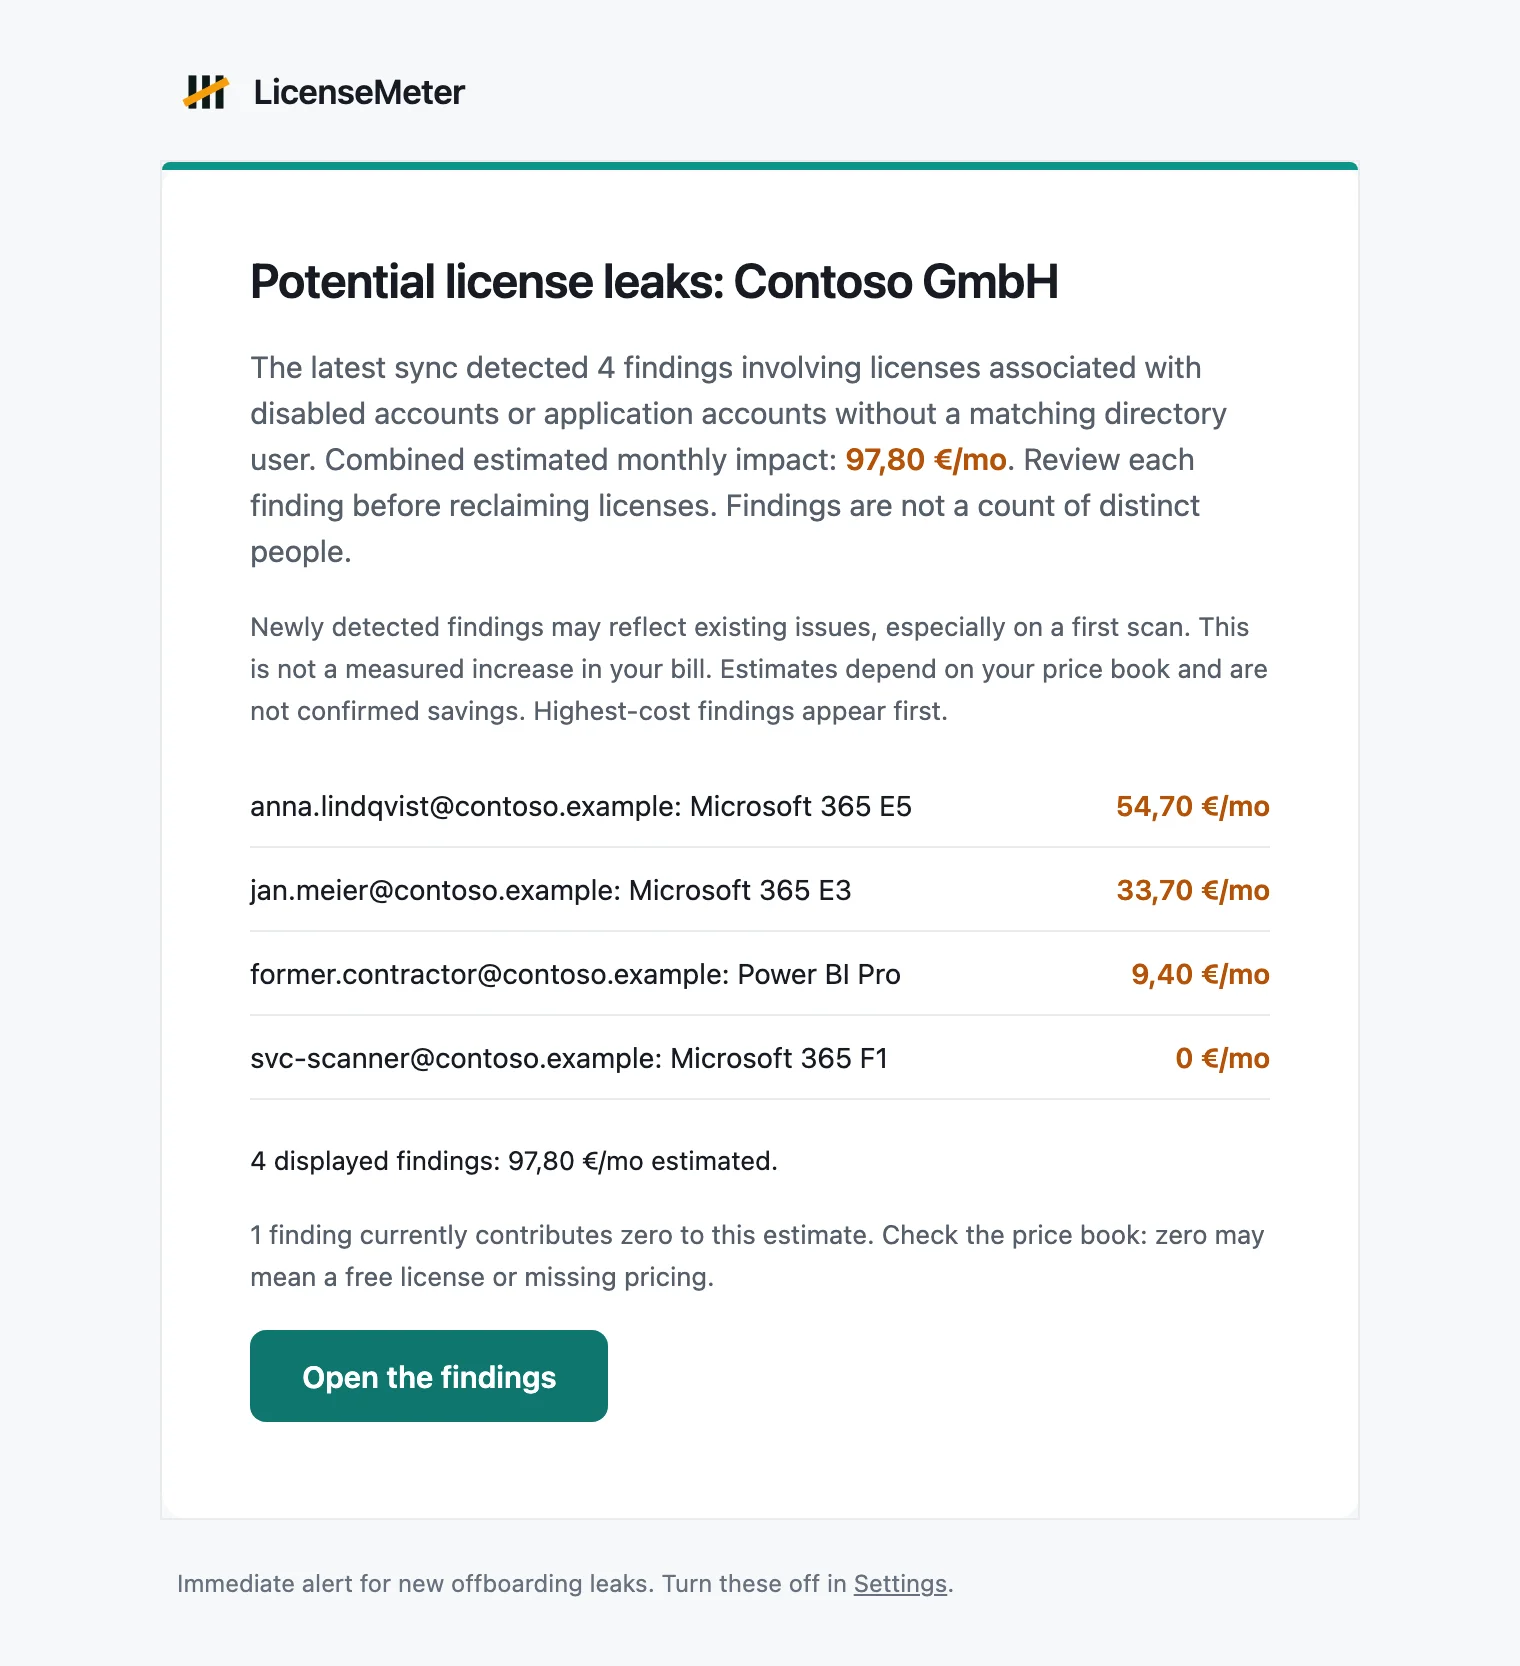
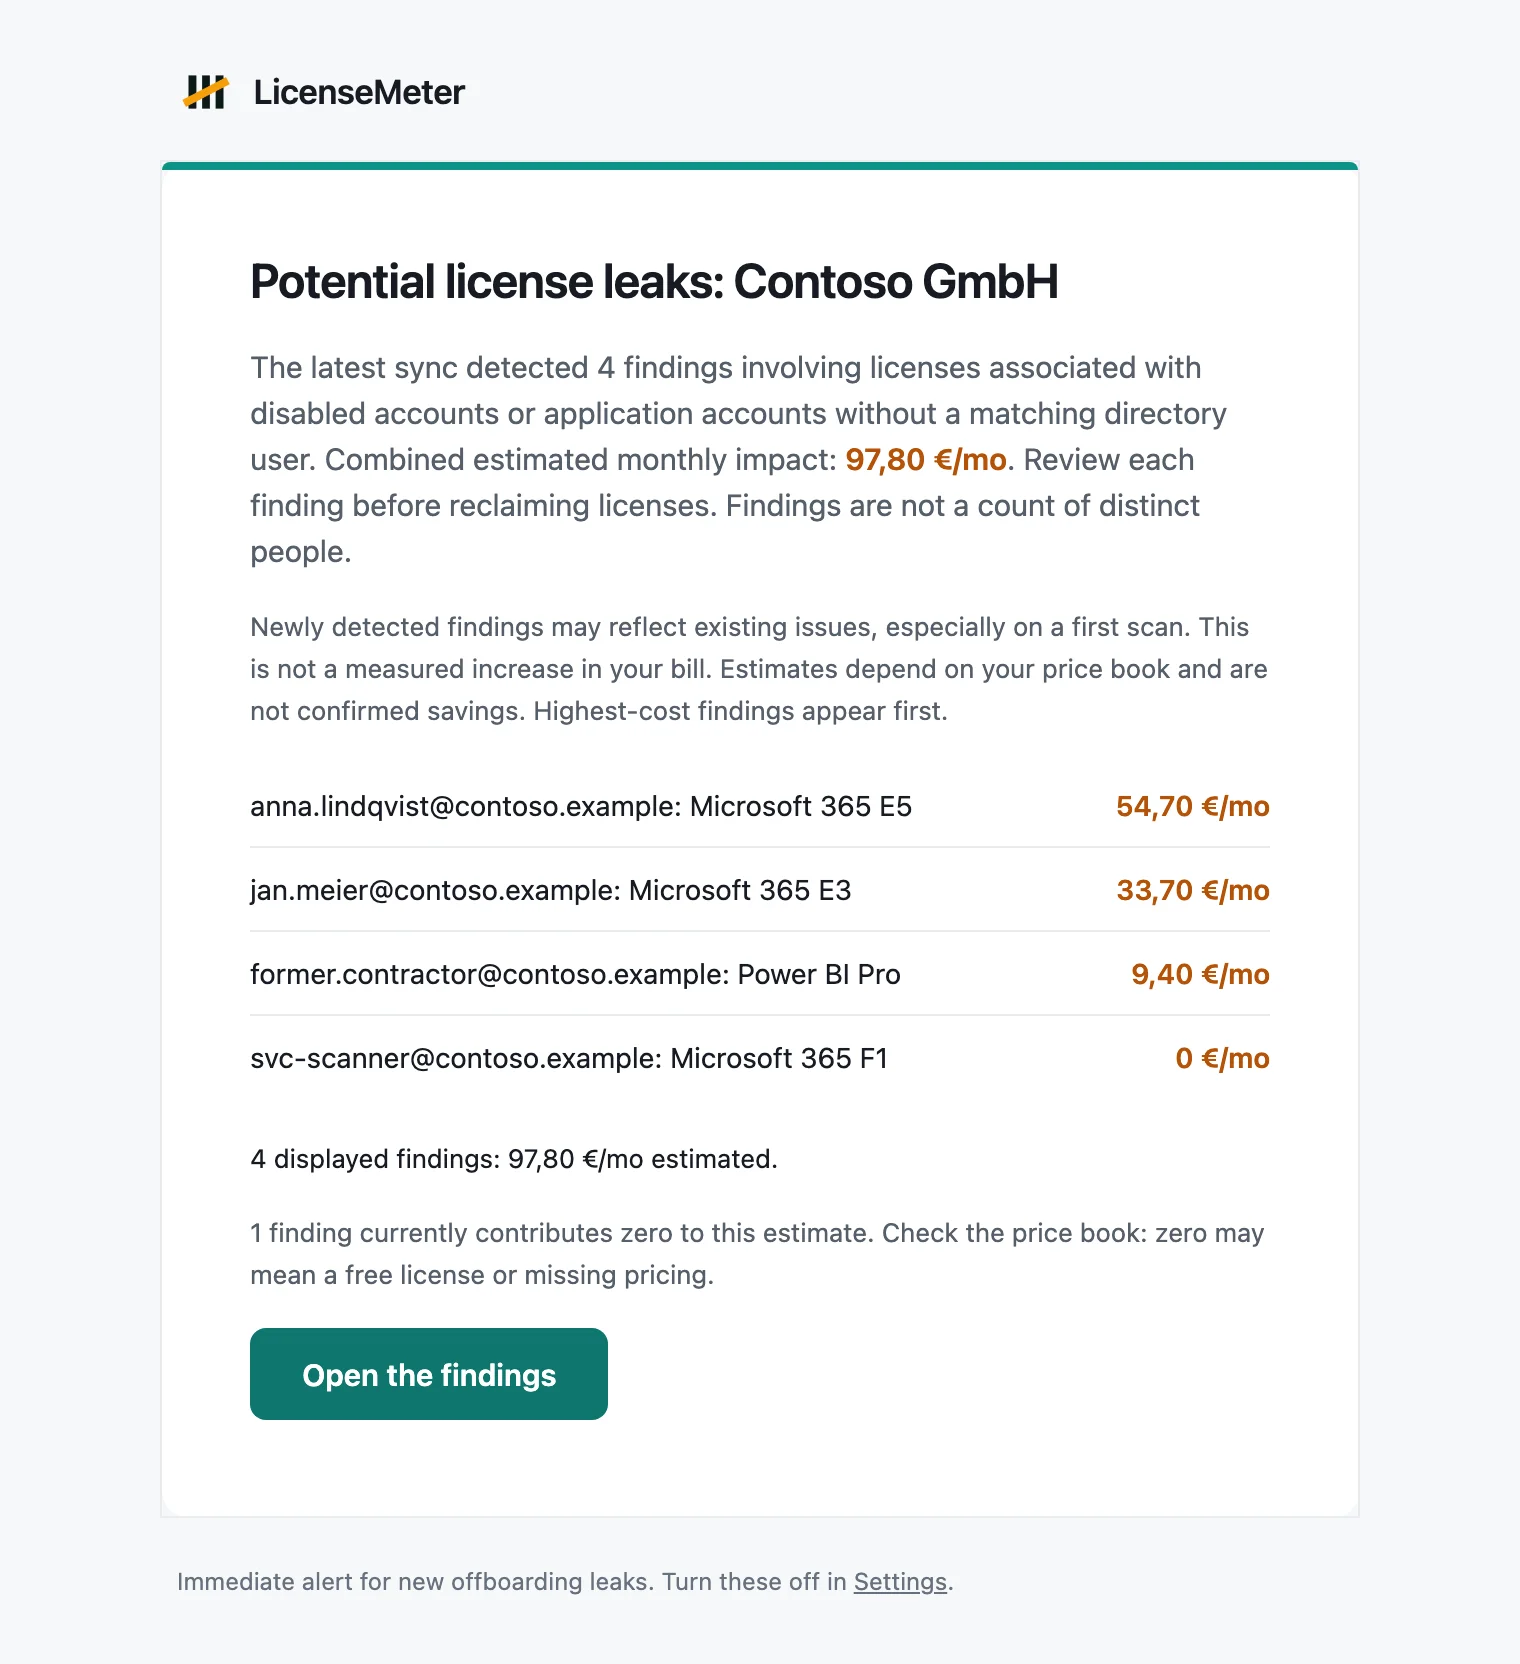
Keep email addresses in the type of the mail around them (#66)
Addresses LicenseMeter renders now carry an anchor of our own in the surrounding colour, so a mail client's own linkifier no longer paints half a findings table blue, and the shell asks clients not to detect addresses. The last row of a figures table no longer draws a rule that doubled with the one below it.

diff --git a/src/lib/emailLayout.ts b/src/lib/emailLayout.ts
@@ -55,6 +55,31 @@ export const emailAppLink = (
   query = "",
 ): string => escapeHtml(emailAppUrl(baseUrl, path, query));
 
+/**
+ * A bare email address in body text gets linkified by the mail client itself,
+ * which paints it blue and underlined while the display name beside it stays
+ * plain, so a findings table ends up half blue. Giving the address an anchor
+ * of our own keeps the client's linkifier out and the row in one type. Takes
+ * plain text, returns HTML.
+ */
+// Apostrophes are legal in a local part and common in a UPN (o'connor@).
+const ADDRESS =
+  /[A-Za-z0-9._%+'-]+@[A-Za-z0-9-]+(?:\.[A-Za-z0-9-]+)*\.[A-Za-z]{2,}/g;
+
+export const emailAddressText = (text: string): string => {
+  // Matched on the raw text, because escaping first would hide an apostrophe
+  // inside an entity and cut the address short there.
+  let html = "";
+  let end = 0;
+  for (const match of text.matchAll(ADDRESS)) {
+    const address = escapeHtml(match[0]);
+    html += escapeHtml(text.slice(end, match.index));
+    html += `<a href="mailto:${address}" style="color:inherit;text-decoration:none">${address}</a>`;
+    end = match.index + match[0].length;
+  }
+  return html + escapeHtml(text.slice(end));
+};
+
 /** Small uppercase label above a heading. Plain text. */
 export const emailEyebrow = (text: string, color: string = C.brandText) =>
   `<p style="margin:0 0 14px 0;${EMAIL_MONO};font-size:11px;letter-spacing:1.4px;text-transform:uppercase;color:${color}">${escapeHtml(text)}</p>`;
@@ -83,9 +108,9 @@ export const emailText = (
   return `<p style="margin:0 0 16px 0;${type};color:${color}">${html}</p>`;
 };
 
-/** Emphasis inside running text. Plain text. */
+/** Emphasis inside running text. Plain text; addresses keep this type. */
 export const emailStrong = (text: string): string =>
-  `<strong style="color:${C.ink};font-weight:600">${escapeHtml(text)}</strong>`;
+  `<strong style="color:${C.ink};font-weight:600">${emailAddressText(text)}</strong>`;
 
 /** A money figure that is being wasted. Plain text. */
 export const emailWaste = (text: string): string =>
@@ -130,12 +155,16 @@ export const emailRows = (rows: { label: string; value: string }[]): string =>
     ? ""
     : `<table role="presentation" width="100%" cellpadding="0" cellspacing="0" style="margin:0 0 20px 0">
 ${rows
-  .map(
-    (r) => `<tr>
-<td style="${EMAIL_SANS};padding:10px 12px 10px 0;border-bottom:1px solid ${C.line};font-size:14px;line-height:21px;color:${C.ink}">${escapeHtml(r.label)}</td>
-<td style="${EMAIL_SANS};padding:10px 0;border-bottom:1px solid ${C.line};font-size:14px;line-height:21px;text-align:right;white-space:nowrap;font-weight:600;color:${C.wasteText}">${escapeHtml(r.value)}</td>
-</tr>`,
-  )
+  .map((r, i) => {
+    // The last row carries no rule: whatever follows brings its own, and two
+    // of them with the row gap between read as an empty row.
+    const edge =
+      i === rows.length - 1 ? "" : `border-bottom:1px solid ${C.line};`;
+    return `<tr>
+<td style="${EMAIL_SANS};padding:10px 12px 10px 0;${edge}font-size:14px;line-height:21px;color:${C.ink}">${emailAddressText(r.label)}</td>
+<td style="${EMAIL_SANS};padding:10px 0;${edge}font-size:14px;line-height:21px;text-align:right;white-space:nowrap;font-weight:600;color:${C.wasteText}">${escapeHtml(r.value)}</td>
+</tr>`;
+  })
   .join("\n")}
 </table>`;
 
@@ -171,6 +200,7 @@ export const emailShell = (args: {
 <meta charset="utf-8">
 <meta name="viewport" content="width=device-width, initial-scale=1">
 <meta name="x-apple-disable-message-reformatting">
+<meta name="format-detection" content="telephone=no,date=no,address=no,email=no">
 <meta name="color-scheme" content="light">
 <meta name="supported-color-schemes" content="light">
 <title>${escapeHtml(args.title)}</title>
@@ -181,6 +211,8 @@ export const emailShell = (args: {
 body { margin: 0; padding: 0; width: 100%; background: ${C.canvas}; -webkit-text-size-adjust: 100%; }
 table { border-collapse: collapse; }
 img { border: 0; display: block; }
+/* Apple Mail linkifies addresses and dates and restyles them; keep our type. */
+a[x-apple-data-detectors] { color: inherit !important; text-decoration: none !important; font-size: inherit !important; font-family: inherit !important; font-weight: inherit !important; line-height: inherit !important; }
 @media only screen and (max-width: 620px) {
   .shell { width: 100% !important; }
   .pad { padding-left: 24px !important; padding-right: 24px !important; }

diff --git a/src/lib/emailLayout.test.ts b/src/lib/emailLayout.test.ts
@@ -1,6 +1,7 @@
 import { describe, expect, it } from "vitest";
 
 import {
+  emailAddressText,
   emailAppLink,
   emailAppUrl,
   emailButton,
@@ -86,5 +87,67 @@ describe("emailShell", () => {
       footer: "",
     });
     expect(bare).not.toContain("mso-hide:all");
+  });
+});
+
+describe("emailAddressText", () => {
+  it("gives an address an anchor of our own, in the surrounding type", () => {
+    const html = emailAddressText("Disabled account: jan.meier@contoso.com");
+    expect(html).toContain('href="mailto:jan.meier@contoso.com"');
+    expect(html).toContain("color:inherit");
+    expect(html).toContain("text-decoration:none");
+    expect(html).toContain("Disabled account: ");
+  });
+
+  it("leaves text without an address alone", () => {
+    expect(emailAddressText("Copilot seat unused: Anna Schmidt")).toBe(
+      "Copilot seat unused: Anna Schmidt",
+    );
+  });
+
+  it("wraps every address in the text", () => {
+    const html = emailAddressText("a@x.com and b@y.co.uk");
+    expect(html.match(/href="mailto:/g)).toHaveLength(2);
+    expect(html).toContain('href="mailto:b@y.co.uk"');
+  });
+
+  it("keeps an apostrophe in the local part inside the link", () => {
+    const html = emailAddressText("Disabled: o'connor@contoso.com");
+    expect(html).toContain("mailto:o&#39;connor@contoso.com");
+    expect(html).toContain(">o&#39;connor@contoso.com</a>");
+    // Escaping first would have linked only what follows the entity.
+    expect(html).not.toContain("mailto:connor@contoso.com");
+  });
+
+  it("escapes the text before linking, so markup cannot get in", () => {
+    const html = emailAddressText('<img src=x> evil"@contoso.com');
+    expect(html).not.toContain("<img");
+    expect(html).toContain("&lt;img");
+  });
+});
+
+describe("emailRows", () => {
+  it("leaves the last row without a rule, so a following rule is not doubled", () => {
+    const rows = emailRows([
+      { label: "First", value: "1" },
+      { label: "Last", value: "2" },
+    ]);
+    expect(rows.match(/border-bottom/g)).toHaveLength(2);
+    expect(rows.slice(rows.indexOf("Last"))).not.toContain("border-bottom");
+  });
+
+  it("links an address in a row label", () => {
+    expect(emailRows([{ label: "Seat: a@b.com", value: "1" }])).toContain(
+      'href="mailto:a@b.com"',
+    );
+  });
+});
+
+describe("client hints", () => {
+  const html = emailShell({ baseUrl: BASE, title: "t", body: "", footer: "" });
+
+  it("asks clients not to detect addresses, and neutralises Apple's", () => {
+    expect(html).toContain('name="format-detection"');
+    expect(html).toContain("a[x-apple-data-detectors]");
   });
 });

diff --git a/src/server/email.ts b/src/server/email.ts
@@ -1,5 +1,6 @@
 import { env } from "~/env";
 import {
+  emailAddressText,
   emailAppLink,
   emailButton,
   emailFooterLink,
@@ -137,7 +138,7 @@ export const joinRequestHtml = (args: {
   noticeShell({
     appUrl: args.appUrl,
     title: "A colleague asked to join your workspace",
-    heading: `${escapeHtml(args.requesterEmail)} asked to join ${escapeHtml(args.tenantName)}`,
+    heading: `${emailAddressText(args.requesterEmail)} asked to join ${escapeHtml(args.tenantName)}`,
     body: `${emailStrong(args.requesterEmail)} signed in with a verified company
     email and asked for access to the workspace ${emailStrong(args.tenantName)}.
     Nothing is shared until an owner or admin approves the request. Approved
@@ -159,7 +160,7 @@ export const domainJoinedHtml = (args: {
   noticeShell({
     appUrl: args.appUrl,
     title: "A colleague joined your workspace",
-    heading: `${escapeHtml(args.memberEmail)} joined ${escapeHtml(args.tenantName)}`,
+    heading: `${emailAddressText(args.memberEmail)} joined ${escapeHtml(args.tenantName)}`,
     body: `${emailStrong(args.memberEmail)} signed in with a verified company email
     and joined the workspace ${emailStrong(args.tenantName)} as viewer: read-only
     dashboards, findings and exports. You can change the role or remove the

diff --git a/src/server/welcomeEmail.ts b/src/server/welcomeEmail.ts
@@ -1,6 +1,7 @@
 import { DEMO_FIGURES, demoEuros } from "~/lib/demoFigures";
 import {
   EMAIL_COLORS,
+  emailAddressText,
   EMAIL_MONO,
   EMAIL_SANS,
   emailAppLink,
@@ -169,7 +170,7 @@ ${inlineLink(dpaUrl, "licensemeter.com/dpa")}.
 ${emailText("I read every reply. Questions about scopes, features or your setup land directly with me.", { tone: "ink" })}
 <p style="margin:0;font-size:15px;line-height:22px;font-weight:600;color:${C.ink}">Ugur Koc</p>
 <p style="margin:0 0 16px 0;font-size:13px;line-height:20px;color:${C.faint}">Microsoft MVP for Intune and Security Copilot</p>`,
-    footer: `You get this one email because ${escapeHtml(args.email)} was entered on
+    footer: `You get this one email because ${emailAddressText(args.email)} was entered on
 licensemeter.com. Scans, findings, reports and exports are free, with no time
 limit. You can ${emailFooterLink(escapeHtml(args.unsubscribeUrl), "unsubscribe")}
 any time.<br>LicenseMeter, EU-hosted in Frankfurt.`,

diff --git a/src/server/onboardingEmail.ts b/src/server/onboardingEmail.ts
@@ -1,5 +1,6 @@
 import {
   EMAIL_COLORS,
+  emailAddressText,
   EMAIL_MONO,
   EMAIL_SANS,
   emailAppLink,
@@ -195,7 +196,7 @@ ${emailRule()}
 ${emailText("Stuck or missing something? Reply to this email. I read every reply.", { tone: "ink" })}
 <p style="margin:0;font-size:15px;line-height:22px;font-weight:600;color:${C.ink}">Ugur Koc</p>
 <p style="margin:0 0 16px 0;font-size:13px;line-height:20px;color:${C.faint}">Founder, LicenseMeter</p>`,
-    footer: `You receive this one-time email because ${escapeHtml(args.email)} signed in to LicenseMeter for the first time.<br>
+    footer: `You receive this one-time email because ${emailAddressText(args.email)} signed in to LicenseMeter for the first time.<br>
 ${emailFooterLink(DOCS, "Documentation")}
 &nbsp;&middot;&nbsp;
 ${emailFooterLink("https://changelog.ugurlabs.com/?product=licensemeter", "Product updates")}
